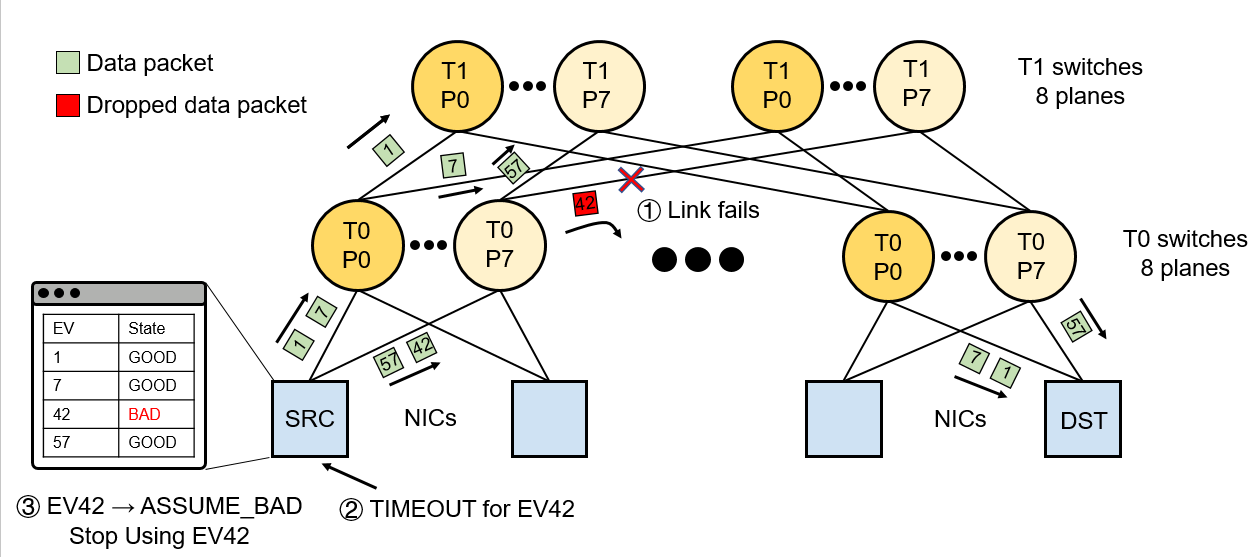
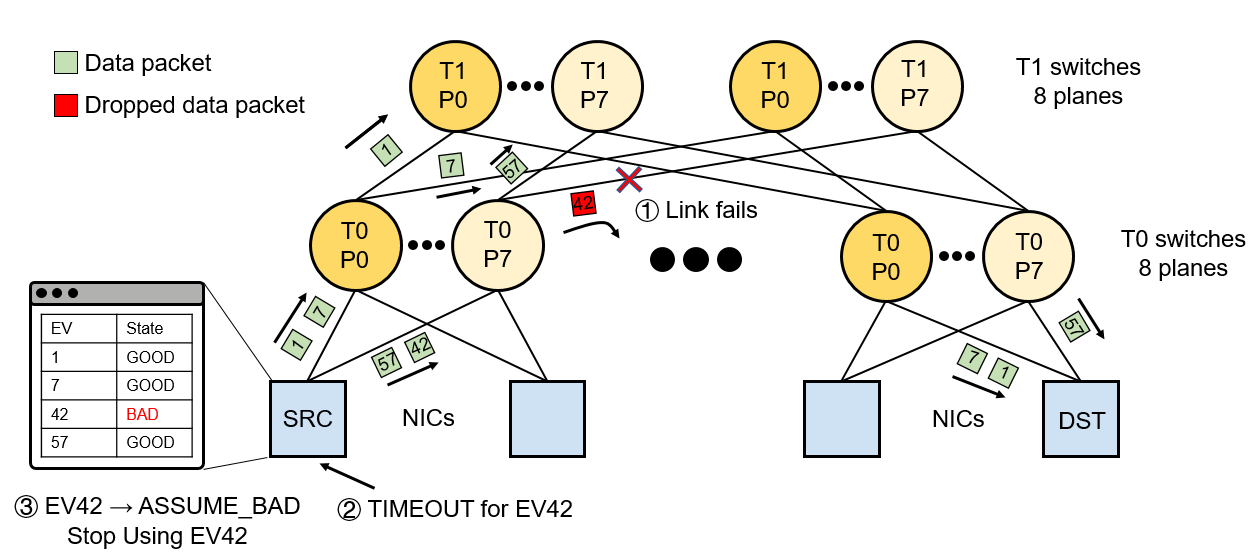
nits

diff --git a/src/content/posts/openai-mrc.md b/src/content/posts/openai-mrc.md
@@ -25,7 +25,7 @@ Date: May 21, 2026
 
 <div class="tldr">
 <p>
-<strong>MRC</strong> (Multipath Reliable Connection) [1] is a new RDMA transport from OpenAI/Microsoft/AMD/Broadcom/NVIDIA. Based on RoCEv2 RC, it adds <strong>per-QP packet spraying, out-of-order delivery, and selective retransmission, UET's congestion control</strong>, together with <strong> multi-plane topology and static SRv6 source routing</strong>. The OCP MRC 1.0 spec [2] is out, and CX-8, AMD Pollara, and Broadcom Thor Ultra already ship it.
+<strong><a href="https://cdn.openai.com/pdf/resilient-ai-supercomputer-networking-using-mrc-and-srv6.pdf">MRC</a></strong> (Multipath Reliable Connection) is a new RDMA transport from OpenAI, Microsoft, AMD, Broadcom, and NVIDIA. Based on RoCEv2 RC, it adds <strong>per-QP packet spraying, out-of-order delivery, and selective retransmission, UET's congestion control</strong>, together with <strong> multi-plane topology and static SRv6 source routing</strong>. Thir <a href="https://www.opencompute.org/documents/ocp-mrc-1-0-pdf">OCP MRC 1.0 spec</a> is out, and CX-8, AMD Pollara, and Broadcom Thor Ultra already ship it. This blog aims to understand the MRC protocol in depth and compare it with other alternative solutions IB/RoCEv2, UEC, AWS SRD, and UCCL-Tran. 
 </p>
 </div>
 
@@ -42,7 +42,7 @@ Date: May 21, 2026
 
 &nbsp;&nbsp;&nbsp;&nbsp;🔧 **Fixes RC pain point — *single-path-per-QP*.** RC QP pins all its traffic to one 5-tuple, so a single ECMP hash collision or one bad link silently bottlenecks (or kills) the QP and leaves the rest of the fabric unused.
 
-- **Congestion control: UET NSCC.** MRC uses NSCC — UET's Network-Signalled Congestion Control [4]. It's a **sender-driven, SACK-clocked, window-based** algorithm that uses both ECN and RTT to keep queueing delay within a configured target without sacrificing throughput. RTT provides quantitative congestion information, but it is a lagging signal; ECN is leading but coarser, giving a coarse one-bit signal of congestion.  Combining the two gives NSCC both faster reaction and more precise control.
+- **Congestion control: UET NSCC.** MRC uses NSCC — UET's Network-Signalled Congestion Control [^1]. It's a **sender-driven, SACK-clocked, window-based** algorithm that uses both ECN and RTT to keep queueing delay within a configured target without sacrificing throughput. RTT provides quantitative congestion information, but it is a lagging signal; ECN is leading but coarser, giving a coarse one-bit signal of congestion.  Combining the two gives NSCC both faster reaction and more precise control.
 
 <p align="center">
   <img src="/openai-mrc/cc.png" alt="MRC congestion control: NSCC uses both ECN and RTT to keep queueing delay within a target without sacrificing throughput" width="530"/>
@@ -72,7 +72,7 @@ Date: May 21, 2026
 
 - **Implemented on the latest generation of smart RDMA NICs.** MRC is not a software protocol — it is baked into the data plane of three vendors' newest silicon: **NVIDIA ConnectX-8** (800 Gb/s), **AMD Pollara / Vulcano** (400/800 Gb/s), and **Broadcom Thor Ultra** (800 Gb/s). The host-side API is **`libibverbs`-compatible**: applications continue to use the standard verbs surface (QPs, MRs, work-request posting, CQ polling), so existing RDMA stacks like NCCL/RCCL plug in without a new user-space library.
 
-> *UCCL-Tran lens.* Many protocol-level bet here mirrors decisions UCCL-Tran made in software: per-packet (or per-chunk) spraying across hundreds of logical paths, PFC-off lossy operation, out-of-order DMA placement, and selective retransmission instead of go-back-N. The MRC paper is, in many ways, a hardware realization of the same architectural answer — and that is exactly why we find it interesting. UCCL-Tran keeps that same surface in CPU software, so a new CC profile (e.g., receiver-driven EQDS for MoE incast), a new LB policy, or a new loss-tolerance scheme is a code change, not a new tape-out. We see MRC as raising the floor; UCCL-Tran keeps the ceiling open. **And just as importantly: MRC only runs on the very latest silicon (CX-8 / Pollara / Thor Ultra), while UCCL-Tran brings the same multipath, OoO, selective-retransmit power to the *legacy* RDMA NICs already deployed in the field — CX-5/6/7, BlueField, EFA, Thor 1/2 — without a hardware refresh, albeit with some design tradeoffs.** 
+> *UCCL-Tran lens.* Many protocol-level bet here mirrors decisions UCCL-Tran [^3] made in software: per-packet (or per-chunk) spraying across hundreds of logical paths, PFC-off lossy operation, out-of-order DMA placement, and selective retransmission instead of go-back-N. The MRC paper is, in many ways, a hardware realization of the same architectural answer — and that is exactly why we find it interesting. UCCL-Tran keeps that same surface in CPU software, so a new CC profile (e.g., receiver-driven EQDS for MoE incast), a new LB policy, or a new loss-tolerance scheme is a code change, not a new tape-out. We see MRC as raising the floor; UCCL-Tran keeps the ceiling open. **And just as importantly: MRC only runs on the very latest silicon (CX-8 / Pollara / Thor Ultra), while UCCL-Tran brings the same multipath, OoO, selective-retransmit power to the *legacy* RDMA NICs already deployed in the field — CX-5/6/7, BlueField, EFA, Thor 1/2 — without a hardware refresh, albeit with some design tradeoffs.** 
 
 ## 1.2 Multi-plane Topology
 The topology piece is just as important as the transport piece. MRC leans on a key capability of modern NICs — **per-lane port breakout** — to turn one 800 Gb/s NIC port into 4×200 or 8×100 Gb/s independent network ports, and then builds **one Clos plane per lane**. This is the crucial distinction from the more familiar **multi-rail** design (e.g., Alibaba HPN, Meta's rail-optimized fabrics), where each NIC has a single port that lives in a single rail.
@@ -80,7 +80,7 @@ The topology piece is just as important as the transport piece. MRC leans on a k
 <p align="center">
   <img src="/openai-mrc/cx8-multiplane.png" alt="ConnectX-8 multi-plane vs. standard single-port NIC connectivity: on the left, each CX-8 NIC's 800 Gb/s port is split into 4 independent lanes that fan out into 4 separate Spectrum-X Ethernet planes, scaling a two-tier non-blocking fat-tree to 256×512 = 128K GPUs; on the right, a standard 1-port-4-lane NIC stays inside a single plane and tops out at 64×32 = 2K GPUs at the same switch radix" width="900"/>
 </p>
-<p align="center"><em>Figure 5: NIC port breakout in action — on the left, each ConnectX-8 NIC's 800 Gb/s port is split into 4 independent lanes that feed 4 separate Spectrum-X Ethernet planes, scaling a two-tier non-blocking fat-tree to <strong>128K GPUs</strong> at switch radix 512; on the right, a standard 1-port-4-lane NIC lives in a single plane and tops out at <strong>2K GPUs</strong> at the same radix. (Source: NVIDIA Hot Chips 2025, ConnectX-8 talk [6].)</em></p>
+<p align="center"><em>Figure 5: NIC port breakout in action — on the left, each ConnectX-8 NIC's 800 Gb/s port is split into 4 independent lanes that feed 4 separate Spectrum-X Ethernet planes, scaling a two-tier non-blocking fat-tree to <strong>128K GPUs</strong> at switch radix 512; on the right, a standard 1-port-4-lane NIC lives in a single plane and tops out at <strong>2K GPUs</strong> at the same radix. (Source: NVIDIA Hot Chips 2025, ConnectX-8 talk [^4].)</em></p>
 
 Multi-plane via NIC breakout gets you:
 
@@ -137,7 +137,7 @@ MRC is genuinely impressive engineering but it still has some limitations that w
 
   This matters more than it sounds. The "WRITE-only" pattern is fine for synchronous pretraining collectives, but it is awkward for several important newer workloads:
 
-  - **MoE dispatch / combine** (e.g., DeepEP [5]) increasingly relies on **`ATOMIC` fetch-and-add** for fast, lock-free token-count exchange between senders and experts. Earlier DeepEP versions did use `WRITE_WITH_IMM`, but that forced the receiver GPU to poll the CQ and re-post RQ entries on the critical path — extra GPU work that competes with the dispatch kernel and is generally regarded as a worse design. The switch to the atomic-based path landed in commit [2d0cf41](https://github.com/deepseek-ai/DeepEP/commit/2d0cf41).
+  - **MoE dispatch / combine** (e.g., DeepEP [^2]) increasingly relies on **`ATOMIC` fetch-and-add** for fast, lock-free token-count exchange between senders and experts. Earlier DeepEP versions did use `WRITE_WITH_IMM`, but that forced the receiver GPU to poll the CQ and re-post RQ entries on the critical path — extra GPU work that competes with the dispatch kernel and is generally regarded as a worse design. The switch to the atomic-based path landed in commit [2d0cf41](https://github.com/deepseek-ai/DeepEP/commit/2d0cf41).
   - **KV transfer for PD disaggregation** wants `READ` so that the decode side pulls KV on demand without a coordination round-trip.
 
 - **`WRITE_WITH_IMM` has a small in-flight cap.** The immediate-data CQE must be delivered to the responder **in order with respect to all prior WRITEs on the QP** — i.e., a `WRITE_WITH_IMM` cannot complete until every preceding WRITE has landed. In a sprayed, out-of-order data plane that means the NIC has to track per-QP barrier state and hold completion resources for every outstanding `WRITE_WITH_IMM`, which is exactly the kind of bookkeeping that does not scale on-chip. As a result MRC implementations cap the number of in-flight `WRITE_WITH_IMM` operations per QP (the spec calls this out and adds a dedicated "Inflight WriteImm limit exceeded" NACK code). Workloads that try to use `WRITE_WITH_IMM` as a fine-grained signaling primitive — one immediate per chunk — will hit this cap before they hit bandwidth.
@@ -146,7 +146,7 @@ MRC is genuinely impressive engineering but it still has some limitations that w
 
 ## 3. Tradeoff summary: MRC vs. AWS SRD vs. UCCL-Tran / UCCL-P2P
 
-MRC, AWS SRD, and UCCL-Tran / UCCL-P2P all answer the same question — "how do we move ML traffic across a large GPU fabric reliably, with multipath, no PFC, and graceful loss recovery?" — but they make very different bets on *where* the transport lives and *how open* it is. MRC pushes the answer into a new generation of merchant silicon under an open OCP spec; AWS SRD bakes a similar answer into the closed Nitro / EFA data plane, tightly co-designed with the AWS VPC fabric [7]; UCCL-Tran / UCCL-P2P keeps the answer in CPU software, so it can ride on the legacy RDMA NICs already deployed in the field. The table below lines up the design choices side by side so the tradeoffs — performance ceiling, hardware dependency, openness, programmability, observability, and time-to-ship — are easy to compare.
+MRC, AWS SRD, and UCCL-Tran / UCCL-P2P all answer the same question — "how do we move ML traffic across a large GPU fabric reliably, with multipath, no PFC, and graceful loss recovery?" — but they make very different bets on *where* the transport lives and *how open* it is. MRC pushes the answer into a new generation of merchant silicon under an open OCP spec; AWS SRD bakes a similar answer into the closed Nitro / EFA data plane, tightly co-designed with the AWS VPC fabric [^5]; UCCL-Tran / UCCL-P2P keeps the answer in CPU software, so it can ride on the legacy RDMA NICs already deployed in the field. The table below lines up the design choices side by side so the tradeoffs — performance ceiling, hardware dependency, openness, programmability, observability, and time-to-ship — are easy to compare.
 
 <p align="center"><em>Table 2: Comparison of different transports</em></p>
 
@@ -171,13 +171,8 @@ MRC, AWS SRD, and UCCL-Tran / UCCL-P2P all answer the same question — "how do 
 
 ## References
 
-1. J. Araujo, S. Anantharamu, K. Doddapaneni, E. Davis, A. Barnea, M. Handley, J. Padhye, J. Jose, R. Sohan, S. Sur, et al. *Resilient AI Supercomputer Networking using MRC and SRv6.* OpenAI / Microsoft / AMD / Broadcom / NVIDIA, 2026. <https://cdn.openai.com/pdf/resilient-ai-supercomputer-networking-using-mrc-and-srv6.pdf>
-2. R. Sohan, E. Spada, E. Davis, M. Handley, I. Burstein, T. Hurson, J. Jose, V. Kashyap, R. Pan, S. Sur. *Multipath Reliable Connection (MRC) Specification, v1.0.* Open Compute Project, 2026. <https://www.opencompute.org/documents/ocp-mrc-1-0-pdf>
-3. Y. Zhou, Z. Chen, Z. Mao, C. Lao, S. Yang, P. G. Kannan, J. Gao, Y. Zhao, Y. Wu, K. You, F. Ren, Z. Xu, C. Raiciu, I. Stoica. *UCCL-Tran: An Extensible Software Transport Layer for Machine Learning Workloads.* USENIX OSDI, 2026. <https://arxiv.org/pdf/2504.17307>
-4. Ultra Ethernet Consortium. *Ultra Ethernet Specification v1.0.* 2025. <https://ultraethernet.org/wp-content/uploads/sites/20/2025/06/UE-Specification-6.11.25.pdf>
-5. DeepSeek-AI. *DeepEP — An efficient expert-parallel communication library.* GitHub, 2025–2026. <https://github.com/deepseek-ai/DeepEP>
-6. NVIDIA. *ConnectX-8 SuperNIC.* Hot Chips 2025. <https://hc2025.hotchips.org/assets/program/conference/day1/CX8%20HotChips%20Aug25v2.pdf>
-7. L. Shalev, H. Ayoub, N. Bshara, E. Sabbag. *A Cloud-Optimized Transport Protocol for Elastic and Scalable HPC.* IEEE Micro, vol. 40, no. 6, 2020. <https://ieeexplore.ieee.org/document/9189994>
-
-
-
+[^1]: Ultra Ethernet Consortium. *Ultra Ethernet Specification v1.0.* 2025. <https://ultraethernet.org/wp-content/uploads/sites/20/2025/06/UE-Specification-6.11.25.pdf>
+[^2]: DeepSeek-AI. *DeepEP — An efficient expert-parallel communication library.* GitHub, 2025–2026. <https://github.com/deepseek-ai/DeepEP>
+[^3]: Y. Zhou, Z. Chen, Z. Mao, C. Lao, S. Yang, P. G. Kannan, J. Gao, Y. Zhao, Y. Wu, K. You, F. Ren, Z. Xu, C. Raiciu, I. Stoica. *UCCL-Tran: An Extensible Software Transport Layer for Machine Learning Workloads.* USENIX OSDI, 2026. <https://arxiv.org/pdf/2504.17307>
+[^4]: NVIDIA. *ConnectX-8 SuperNIC.* Hot Chips 2025. <https://hc2025.hotchips.org/assets/program/conference/day1/CX8%20HotChips%20Aug25v2.pdf>
+[^5]: L. Shalev, H. Ayoub, N. Bshara, E. Sabbag. *A Cloud-Optimized Transport Protocol for Elastic and Scalable HPC.* IEEE Micro, vol. 40, no. 6, 2020. <https://ieeexplore.ieee.org/document/9189994>

diff --git a/README.md b/README.md
@@ -8,3 +8,10 @@ brew install node pnpm
 pnpm install
 pnpm run dev
 ```
+
+### Blog Tricks
+
+* href your website url in the author list so readers can contact
+* Using reference [^1] and in the blog main text and reference (only work in markdown)
+* Using \`\<code\>\` and \```cpp \<lines-of-code\>\``` for code formating
+* Using \*\*\<text\>\*\* for bold